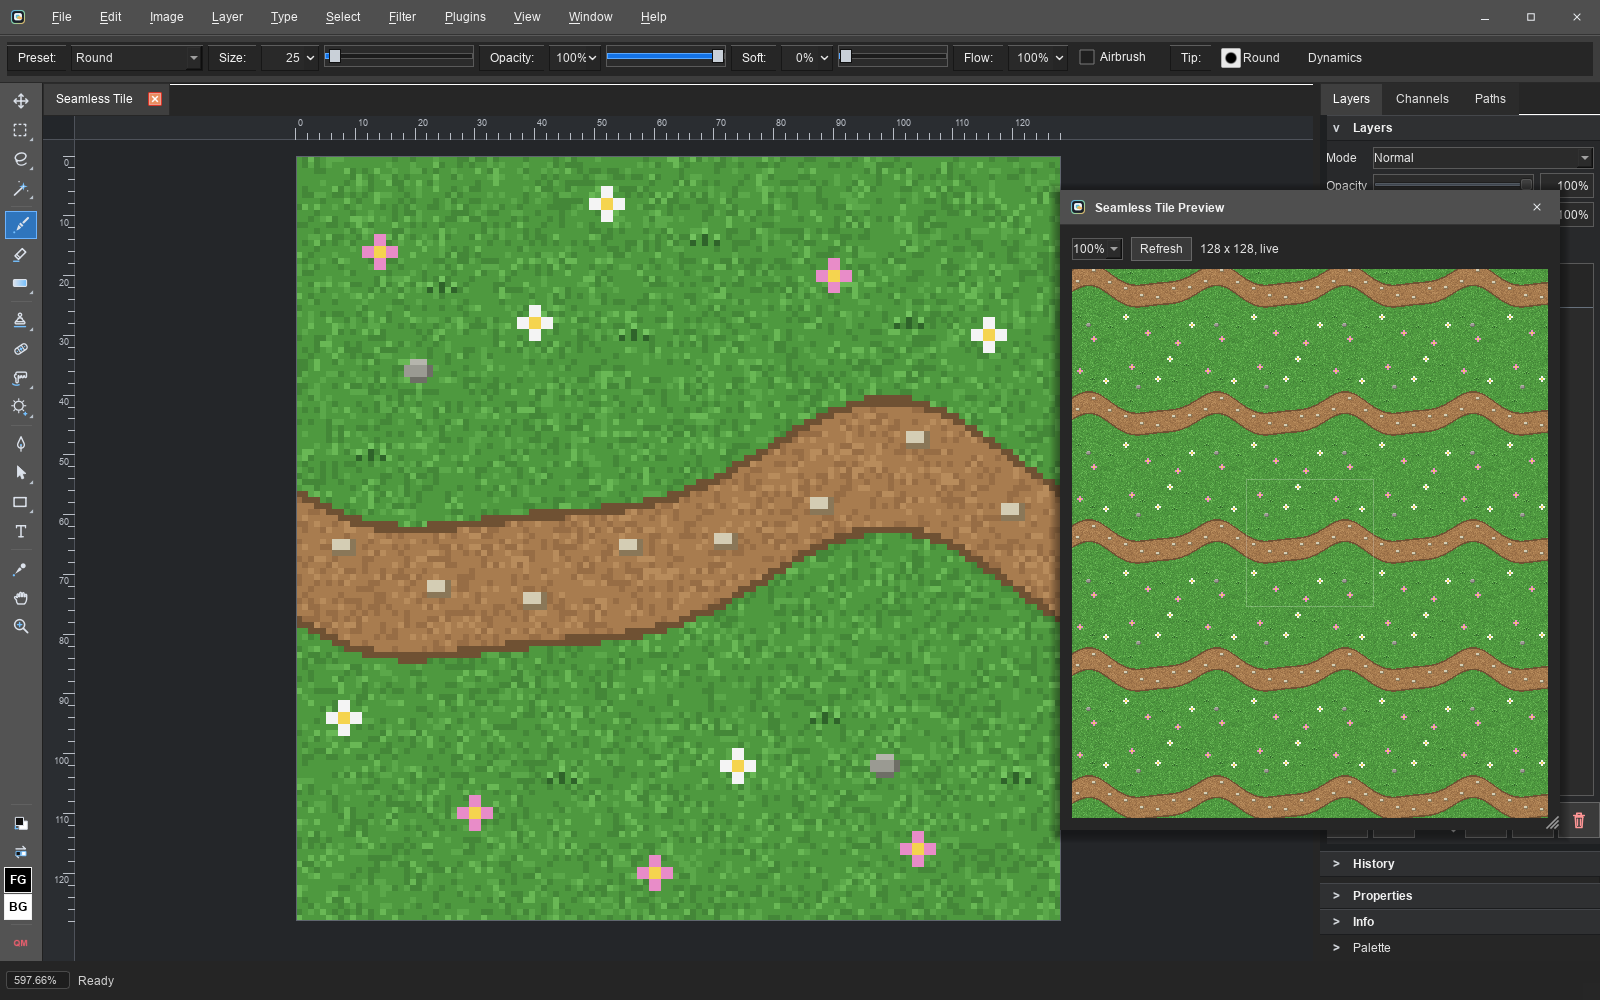
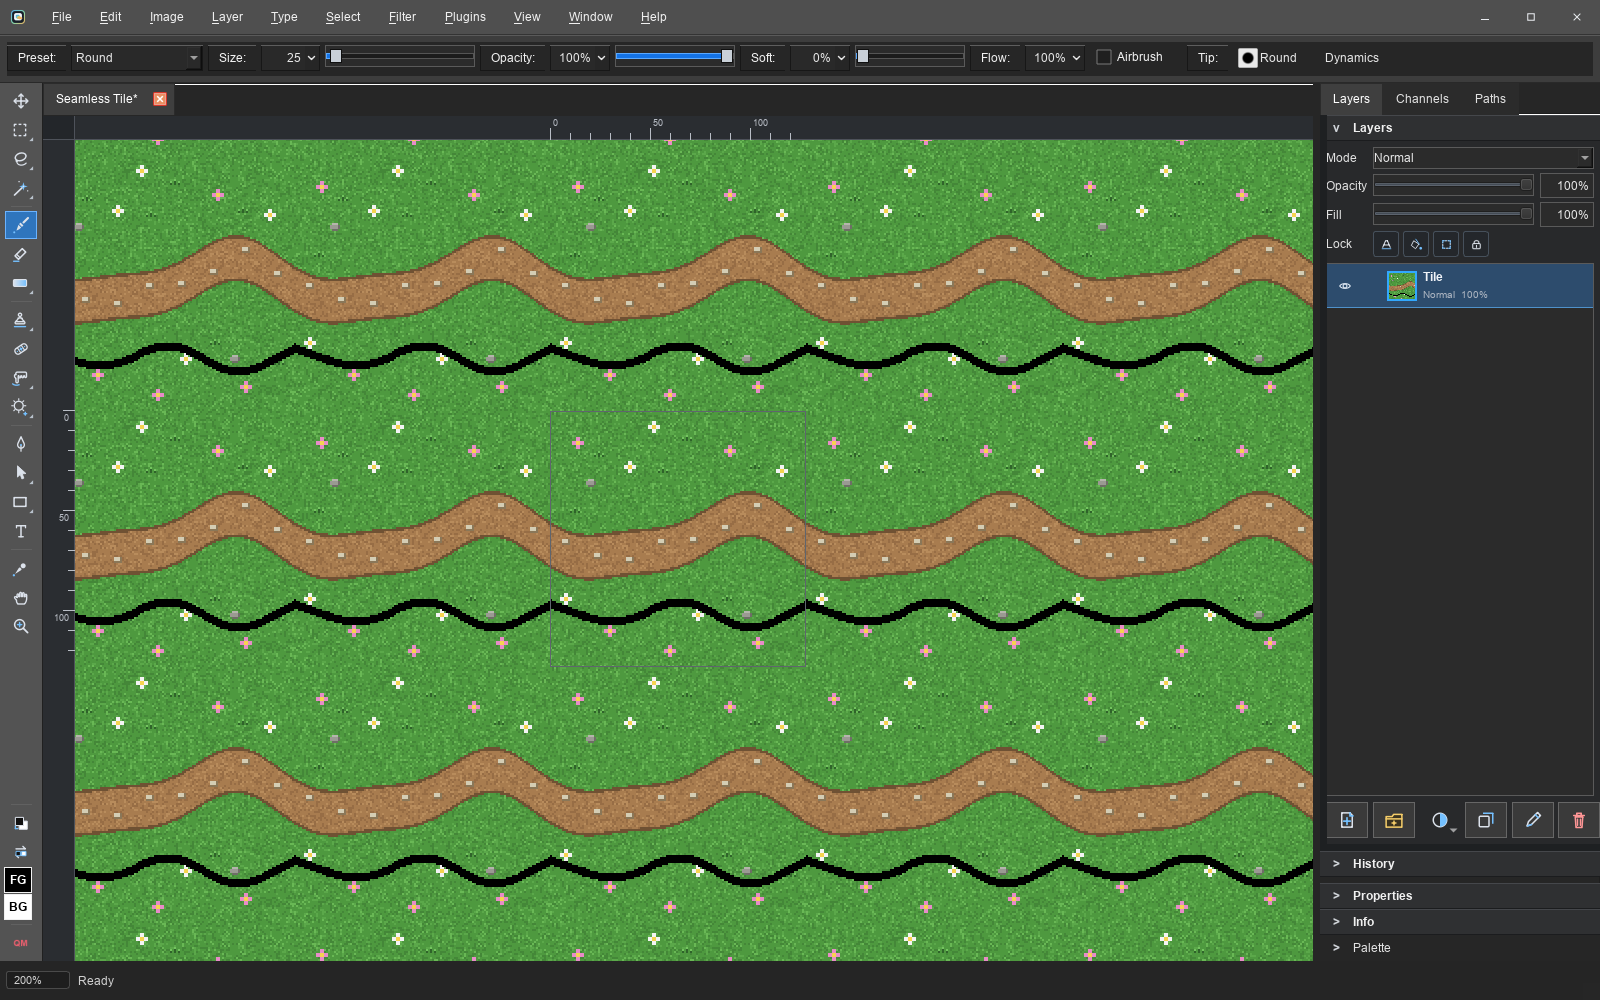
README tiling screenshot now shows the in-canvas seamless tiling mode: grass tile as live ghost tiles with a painted black line wrapping across every tile edge

diff --git a/tests/ui/readme_screenshot_tests.cpp b/tests/ui/readme_screenshot_tests.cpp
@@ -1395,10 +1395,10 @@ QImage readme_seamless_tile() {
   return tile;
 }
 
-// Seamless Tile Preview: the pixel-art tile on the canvas at 400% with the
-// live tiled preview window floating beside it, proving the edges wrap.
+// Seamless tiling mode: the pixel-art tile repeating across the whole canvas as
+// live ghost tiles, with a just-painted black line that wraps over the tile
+// edges, proving strokes tile seamlessly as you paint.
 void shot_readme_tile_preview() {
-  SettingsValueRestorer tile_window_size_restorer(QStringLiteral("ui/tilePreviewWindowSize"));
   patchy::ui::MainWindow window;
   show_readme_shot_window(window);
   window.add_document_session(patchy::ui::document_from_qimage(readme_seamless_tile(), "Tile"),
@@ -1410,34 +1410,32 @@ void shot_readme_tile_preview() {
   if (!rulers_action->isChecked()) {
     rulers_action->trigger();
   }
-  // Fit upscales small documents, so the 128px tile fills the viewport with
-  // crisp nearest-neighbor pixels (the pixel-art working view).
-  require_action(window, "viewFitOnScreenAction")->trigger();
+  auto* canvas = require_canvas(window);
+  auto* tiling_action = require_action(window, "viewTilingModeAction");
+  CHECK(!tiling_action->isChecked());
+  tiling_action->trigger();
+  QApplication::processEvents();
+  CHECK(canvas->tiling_preview_enabled());
+
+  // 200% keeps the pixels crisp while leaving room for a full field of ghost
+  // copies around the center tile.
+  canvas->set_zoom(2.0);
+  canvas->center_document_in_view();
   QApplication::processEvents();
 
-  auto* preview_action = window.findChild<QAction*>(QStringLiteral("viewTilePreviewAction"));
-  CHECK(preview_action != nullptr);
-  preview_action->setChecked(true);
-  QApplication::processEvents();
-  auto* preview = window.findChild<QDialog*>(QStringLiteral("tilePreviewWindow"));
-  CHECK(preview != nullptr);
-  CHECK(preview->isVisible());
-  preview->resize(500, 640);
-  auto* zoom_combo = preview->findChild<QComboBox*>(QStringLiteral("tilePreviewZoomCombo"));
-  CHECK(zoom_combo != nullptr);
-  const auto full_zoom_row = zoom_combo->findData(100);
-  CHECK(full_zoom_row >= 0);
-  zoom_combo->setCurrentIndex(full_zoom_row);
-  process_events_for(600);  // let the live-refresh timer land the composite
-  const QPoint preview_offset(1060, 190);
-  preview->move(window.geometry().topLeft() + preview_offset);
+  // A hard black stroke entering the left edge and leaving the right edge at
+  // the same height: the tiled view joins the ends into one continuous line
+  // wrapping through every copy.
+  canvas->set_brush_size(5);
+  canvas->set_brush_softness(0);
+  canvas->set_primary_color(Qt::black);
+  paint_readme_polyline(*canvas, {QPointF(0.0, 96.0), QPointF(34.0, 108.0), QPointF(66.0, 90.0),
+                                  QPointF(98.0, 112.0), QPointF(128.0, 96.0)});
   QApplication::processEvents();
 
   reset_readme_status_bar(window);
-  auto base = window.grab().toImage();
-  draw_readme_overlay(base, preview->grab().toImage(), preview_offset);
-  save_readme_shot("shot_readme_tile_preview", base);
-  preview_action->setChecked(false);
+  save_readme_shot("shot_readme_tile_preview", window.grab().toImage());
+  tiling_action->trigger();
   QApplication::processEvents();
 
   // Rulers persist to view settings on window teardown; restore the clean state.

diff --git a/README.md b/README.md
@@ -43,8 +43,8 @@ Click a thumbnail for the full-size image.
       <br><sub>Warp Text with live preview: all 15 Photoshop warp styles on editable rich text</sub>
     </td>
     <td align="center" valign="top" width="33%">
-      <a href="docs/images/screenshots/tile_preview.png"><img src="docs/images/screenshots/tile_preview.png" width="270" alt="Pixel-art grass and path tile on the canvas with the Seamless Tile Preview window showing it tiled"></a>
-      <br><sub>Seamless Tile Preview for game textures: the tiled view updates live as you paint</sub>
+      <a href="docs/images/screenshots/tile_preview.png"><img src="docs/images/screenshots/tile_preview.png" width="270" alt="Pixel-art grass and path tile repeating across the whole canvas in seamless tiling mode, with a painted black line wrapping across every tile edge"></a>
+      <br><sub>Seamless tiling mode for game textures: paint on the canvas and strokes wrap live across every tile</sub>
     </td>
     <td align="center" valign="top" width="33%">
       <a href="docs/images/screenshots/smart_objects.png"><img src="docs/images/screenshots/smart_objects.png" width="270" alt="Game title art with a smart object mid warp transform showing the Bezier cage, and its embedded contents open in a second tab"></a>